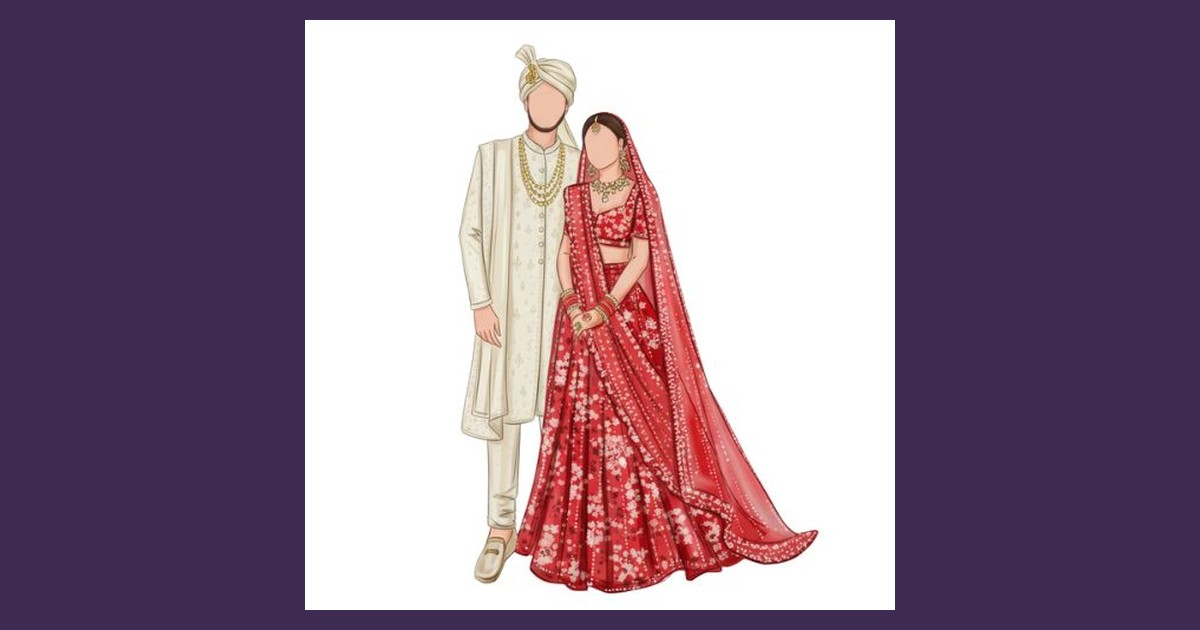
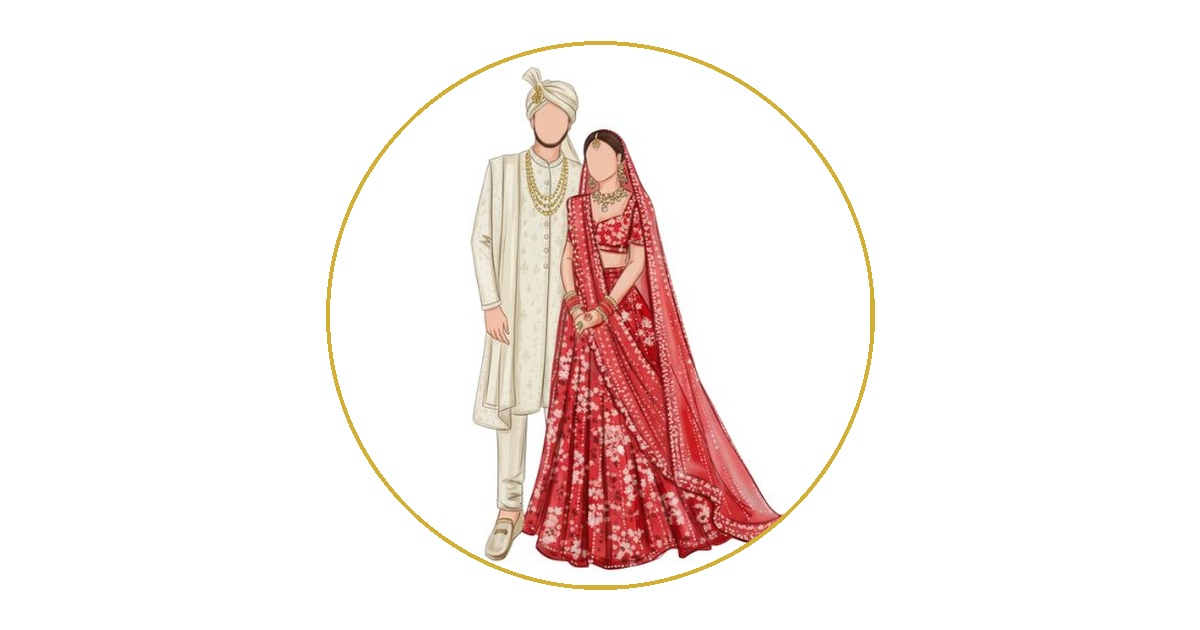
feat: match bride site OG style with white background and circular gold frame

diff --git a/scripts/optimize-og.py b/scripts/optimize-og.py
@@ -1,36 +1,58 @@
-from PIL import Image, ImageOps
+from PIL import Image, ImageOps, ImageDraw
 import os
 
-def create_padded_og_image(source_path, output_path):
+def create_circular_og_image(source_path, output_path):
     target_w = 1200
     target_h = 630
-    bg_color = (61, 43, 82) # #3D2B52 in RGB
+    bg_color = (255, 255, 255) # White as requested
+    gold_color = (212, 175, 55) # #D4AF37
+    
+    # Framing specs from user config
+    frame_size = 540
+    border_width = 8
 
     with Image.open(source_path) as img:
-        # Convert to RGBA if needed (though it's a jpg)
         img = img.convert("RGBA")
         
-        # Create the canvas
+        # Scale the caricature to fit inside the frame
+        # We'll make it 540x540
+        img_resized = img.resize((frame_size, frame_size), Image.Resampling.LANCZOS)
+        
+        # Create a circular mask
+        mask = Image.new("L", (frame_size, frame_size), 0)
+        draw = ImageDraw.Draw(mask)
+        draw.ellipse((0, 0, frame_size, frame_size), fill=255)
+        
+        # Apply mask to image
+        img_circular = Image.new("RGBA", (frame_size, frame_size), (0, 0, 0, 0))
+        img_circular.paste(img_resized, (0, 0), mask)
+        
+        # Create final canvas
         canvas = Image.new("RGB", (target_w, target_h), bg_color)
         
-        # Calculate scaling for the caricature
-        # We want it to fit nicely within the 630 height. 
-        # Let's leave a small margin, say 5% on top/bottom.
-        margin = 20
-        available_h = target_h - (margin * 2)
+        # Draw the gold border circle on canvas first
+        draw_canvas = ImageDraw.Draw(canvas)
+        # Center coordinates
+        center_x = target_w // 2
+        center_y = target_h // 2
         
-        # Scale the square image to available_h
-        img_resized = img.resize((available_h, available_h), Image.Resampling.LANCZOS)
+        # Bounding box for the gold circle (slightly larger than frame_size to account for border)
+        half_f = frame_size // 2
+        left = center_x - half_f - (border_width // 2)
+        top = center_y - half_f - (border_width // 2)
+        right = center_x + half_f + (border_width // 2)
+        bottom = center_y + half_f + (border_width // 2)
         
-        # Position in the center
-        offset_x = (target_w - available_h) // 2
-        offset_y = margin
+        # Draw thick gold border
+        draw_canvas.ellipse((left, top, right, bottom), outline=gold_color, width=border_width)
         
-        # Paste onto canvas
-        canvas.paste(img_resized, (offset_x, offset_y), img_resized)
+        # Paste the circular image in the center
+        paste_x = center_x - half_f
+        paste_y = center_y - half_f
+        canvas.paste(img_circular, (paste_x, paste_y), img_circular)
         
         # Save as JPEG
-        canvas.save(output_path, "JPEG", quality=90, optimize=True)
+        canvas.save(output_path, "JPEG", quality=95, optimize=True)
         
         file_size = os.path.getsize(output_path) / 1024
         print(f"Image saved to {output_path}")
@@ -40,4 +62,4 @@ def create_padded_og_image(source_path, output_path):
 if __name__ == "__main__":
     source = "public/images/wedding-caricature.jpg"
     output = "public/images/og-image.jpg"
-    create_padded_og_image(source, output)
+    create_circular_og_image(source, output)
